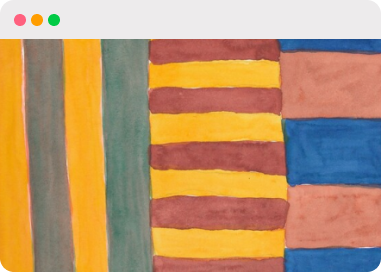
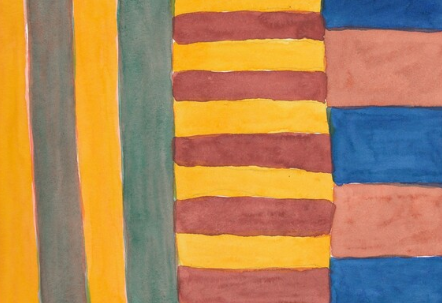
Use 9 raw images in CSS browser frame components

diff --git a/index.html b/index.html
@@ -50,49 +50,61 @@
     <!-- NOW -->
     <section class="era-section" id="now">
 
-      <!-- Art frames — CSS component, swap .b-placeholder for <img class="b-image"> when raw image is ready -->
+      <!-- Art frames — CSS component: chrome is CSS, image is raw -->
       <div class="art-stage" aria-hidden="true">
 
-        <!-- 1: Blue jacket — blue chrome -->
-        <div class="browser-frame af1" style="--chrome: #4B6EE6;">
+        <!-- 1: Folk art — red chrome -->
+        <div class="browser-frame af1" style="--chrome: #C0392B;">
           <div class="b-chrome"><span class="b-dot"></span><span class="b-dot"></span><span class="b-dot"></span></div>
-          <img class="b-image" src="img-jacket-raw.png" alt="" onerror="this.replaceWith(Object.assign(document.createElement('div'),{className:'b-placeholder',style:'--ratio:2/3;--ph:#c4b496'}))">
+          <img class="b-image" src="img-folk.png" alt="">
         </div>
 
-        <!-- 2: Pink eraser — pink chrome -->
-        <div class="browser-frame af2" style="--chrome: #C95E8A;">
+        <!-- 2: Cassi card — soft pink chrome -->
+        <div class="browser-frame af2" style="--chrome: #C06090;">
           <div class="b-chrome"><span class="b-dot"></span><span class="b-dot"></span><span class="b-dot"></span></div>
-          <img class="b-image" src="img-eraser-raw.png" alt="" onerror="this.replaceWith(Object.assign(document.createElement('div'),{className:'b-placeholder',style:'--ratio:3/2;--ph:#c8a090'}))">
+          <img class="b-image" src="img-cassi-card.png" alt="">
         </div>
 
-        <!-- 3: Ethiopian art — green chrome -->
+        <!-- 3: Money stacks — dark green chrome -->
         <div class="browser-frame af3" style="--chrome: #3AB356;">
           <div class="b-chrome"><span class="b-dot"></span><span class="b-dot"></span><span class="b-dot"></span></div>
-          <img class="b-image" src="img-ethiopian-raw.png" alt="" onerror="this.replaceWith(Object.assign(document.createElement('div'),{className:'b-placeholder',style:'--ratio:16/9;--ph:#b89040'}))">
+          <img class="b-image" src="img-money.png" alt="">
         </div>
 
         <!-- 4: Portrait face — orange chrome -->
         <div class="browser-frame af4" style="--chrome: #E8703A;">
           <div class="b-chrome"><span class="b-dot"></span><span class="b-dot"></span><span class="b-dot"></span></div>
-          <img class="b-image" src="img-portrait-raw.png" alt="" onerror="this.replaceWith(Object.assign(document.createElement('div'),{className:'b-placeholder',style:'--ratio:3/4;--ph:#b87858'}))">
+          <img class="b-image" src="img-portrait.png" alt="">
         </div>
 
         <!-- 5: Clock — yellow chrome -->
         <div class="browser-frame af5" style="--chrome: #F0C234;">
           <div class="b-chrome"><span class="b-dot"></span><span class="b-dot"></span><span class="b-dot"></span></div>
-          <img class="b-image" src="img-clock-raw.png" alt="" onerror="this.replaceWith(Object.assign(document.createElement('div'),{className:'b-placeholder',style:'--ratio:4/3;--ph:#8c7050'}))">
+          <img class="b-image" src="img-clock.png" alt="">
         </div>
 
         <!-- 6: Colorful stripes — light chrome + macOS coloured dots -->
-        <div class="browser-frame af6" style="--chrome: #e0e0e0;">
+        <div class="browser-frame af6" style="--chrome: #d8d8d8;">
           <div class="b-chrome b-chrome--macos"><span class="b-dot"></span><span class="b-dot"></span><span class="b-dot"></span></div>
-          <img class="b-image" src="img-stripes-raw.png" alt="" onerror="this.replaceWith(Object.assign(document.createElement('div'),{className:'b-placeholder',style:'--ratio:16/9;--ph:#c8a830'}))">
+          <img class="b-image" src="img-stripes.png" alt="">
         </div>
 
-        <!-- 7: The Scream — orange chrome -->
-        <div class="browser-frame af7" style="--chrome: #E8703A;">
+        <!-- 7: The Scream — amber chrome -->
+        <div class="browser-frame af7" style="--chrome: #D4A020;">
           <div class="b-chrome"><span class="b-dot"></span><span class="b-dot"></span><span class="b-dot"></span></div>
-          <img class="b-image" src="img-scream-raw.png" alt="" onerror="this.replaceWith(Object.assign(document.createElement('div'),{className:'b-placeholder',style:'--ratio:4/3;--ph:#d4b880'}))">
+          <img class="b-image" src="img-scream.png" alt="">
+        </div>
+
+        <!-- 8: Cassi home UI — slate blue chrome -->
+        <div class="browser-frame af8" style="--chrome: #4A6FA5;">
+          <div class="b-chrome"><span class="b-dot"></span><span class="b-dot"></span><span class="b-dot"></span></div>
+          <img class="b-image" src="img-cassi-home.png" alt="">
+        </div>
+
+        <!-- 9: Rolled rugs — burgundy chrome -->
+        <div class="browser-frame af9" style="--chrome: #922B21;">
+          <div class="b-chrome"><span class="b-dot"></span><span class="b-dot"></span><span class="b-dot"></span></div>
+          <img class="b-image" src="img-rugs.jpg" alt="">
         </div>
 
       </div>

diff --git a/style.css b/style.css
@@ -277,14 +277,16 @@ body {
   background: var(--ph, #2a2a2a);
 }
 
-/* ── frame positions (right-side only) ── */
-.af1 { width: 20vw; right: 1vw;  top: 3vh;  z-index: 10; transform: rotate(-1deg);  }
-.af2 { width: 15vw; right: 22vw; top: 2vh;  z-index: 8;  transform: rotate(2.5deg); }
-.af3 { width: 27vw; right: 20vw; top: 36vh; z-index: 12; transform: rotate(0.4deg); }
-.af4 { width: 21vw; right: 2vw;  top: 48vh; z-index: 11; transform: rotate(-1.4deg);}
-.af5 { width: 19vw; right: 24vw; top: 62vh; z-index: 9;  transform: rotate(1.8deg); }
-.af6 { width: 22vw; right: 43vw; top: 6vh;  z-index: 7;  transform: rotate(-2deg);  }
-.af7 { width: 21vw; right: 4vw;  top: 70vh; z-index: 9;  transform: rotate(1deg);   }
+/* ── frame positions (right-side only, all left-edges > 50vw) ── */
+.af1 { width: 18vw; right:  1vw; top:  3vh; z-index: 10; transform: rotate(-1deg);   } /* folk art       */
+.af2 { width: 12vw; right: 20vw; top:  1vh; z-index:  8; transform: rotate(2deg);    } /* cassi card     */
+.af3 { width: 22vw; right: 20vw; top: 34vh; z-index: 12; transform: rotate(0.4deg);  } /* money stacks   */
+.af4 { width: 20vw; right:  1vw; top: 44vh; z-index: 11; transform: rotate(-1.5deg); } /* portrait face  */
+.af5 { width: 16vw; right: 23vw; top: 60vh; z-index:  9; transform: rotate(1.8deg);  } /* clock          */
+.af6 { width: 20vw; right: 26vw; top:  5vh; z-index:  7; transform: rotate(-2deg);   } /* stripes        */
+.af7 { width: 18vw; right:  2vw; top: 68vh; z-index:  9; transform: rotate(1deg);    } /* scream         */
+.af8 { width: 11vw; right: 33vw; top: 26vh; z-index:  6; transform: rotate(-1.5deg); } /* cassi home     */
+.af9 { width: 15vw; right: 27vw; top: 52vh; z-index:  8; transform: rotate(1.5deg);  } /* rugs           */
 
 /* ─── OTHER ERA SECTIONS ─── */
 .era-inner {

diff --git a/script.js b/script.js
@@ -40,7 +40,7 @@ if (main && sections.length) {
 const frames = document.querySelectorAll('.browser-frame');
 
 // Read base rotations from computed styles (set via CSS class)
-const baseRots = [[-1],[2.5],[0.4],[-1.4],[1.8],[-2],[1]];
+const baseRots = [[-1],[2],[ 0.4],[-1.5],[1.8],[-2],[1],[-1.5],[1.5]];
 
 document.addEventListener('mousemove', (e) => {
   const cx = window.innerWidth  / 2;
